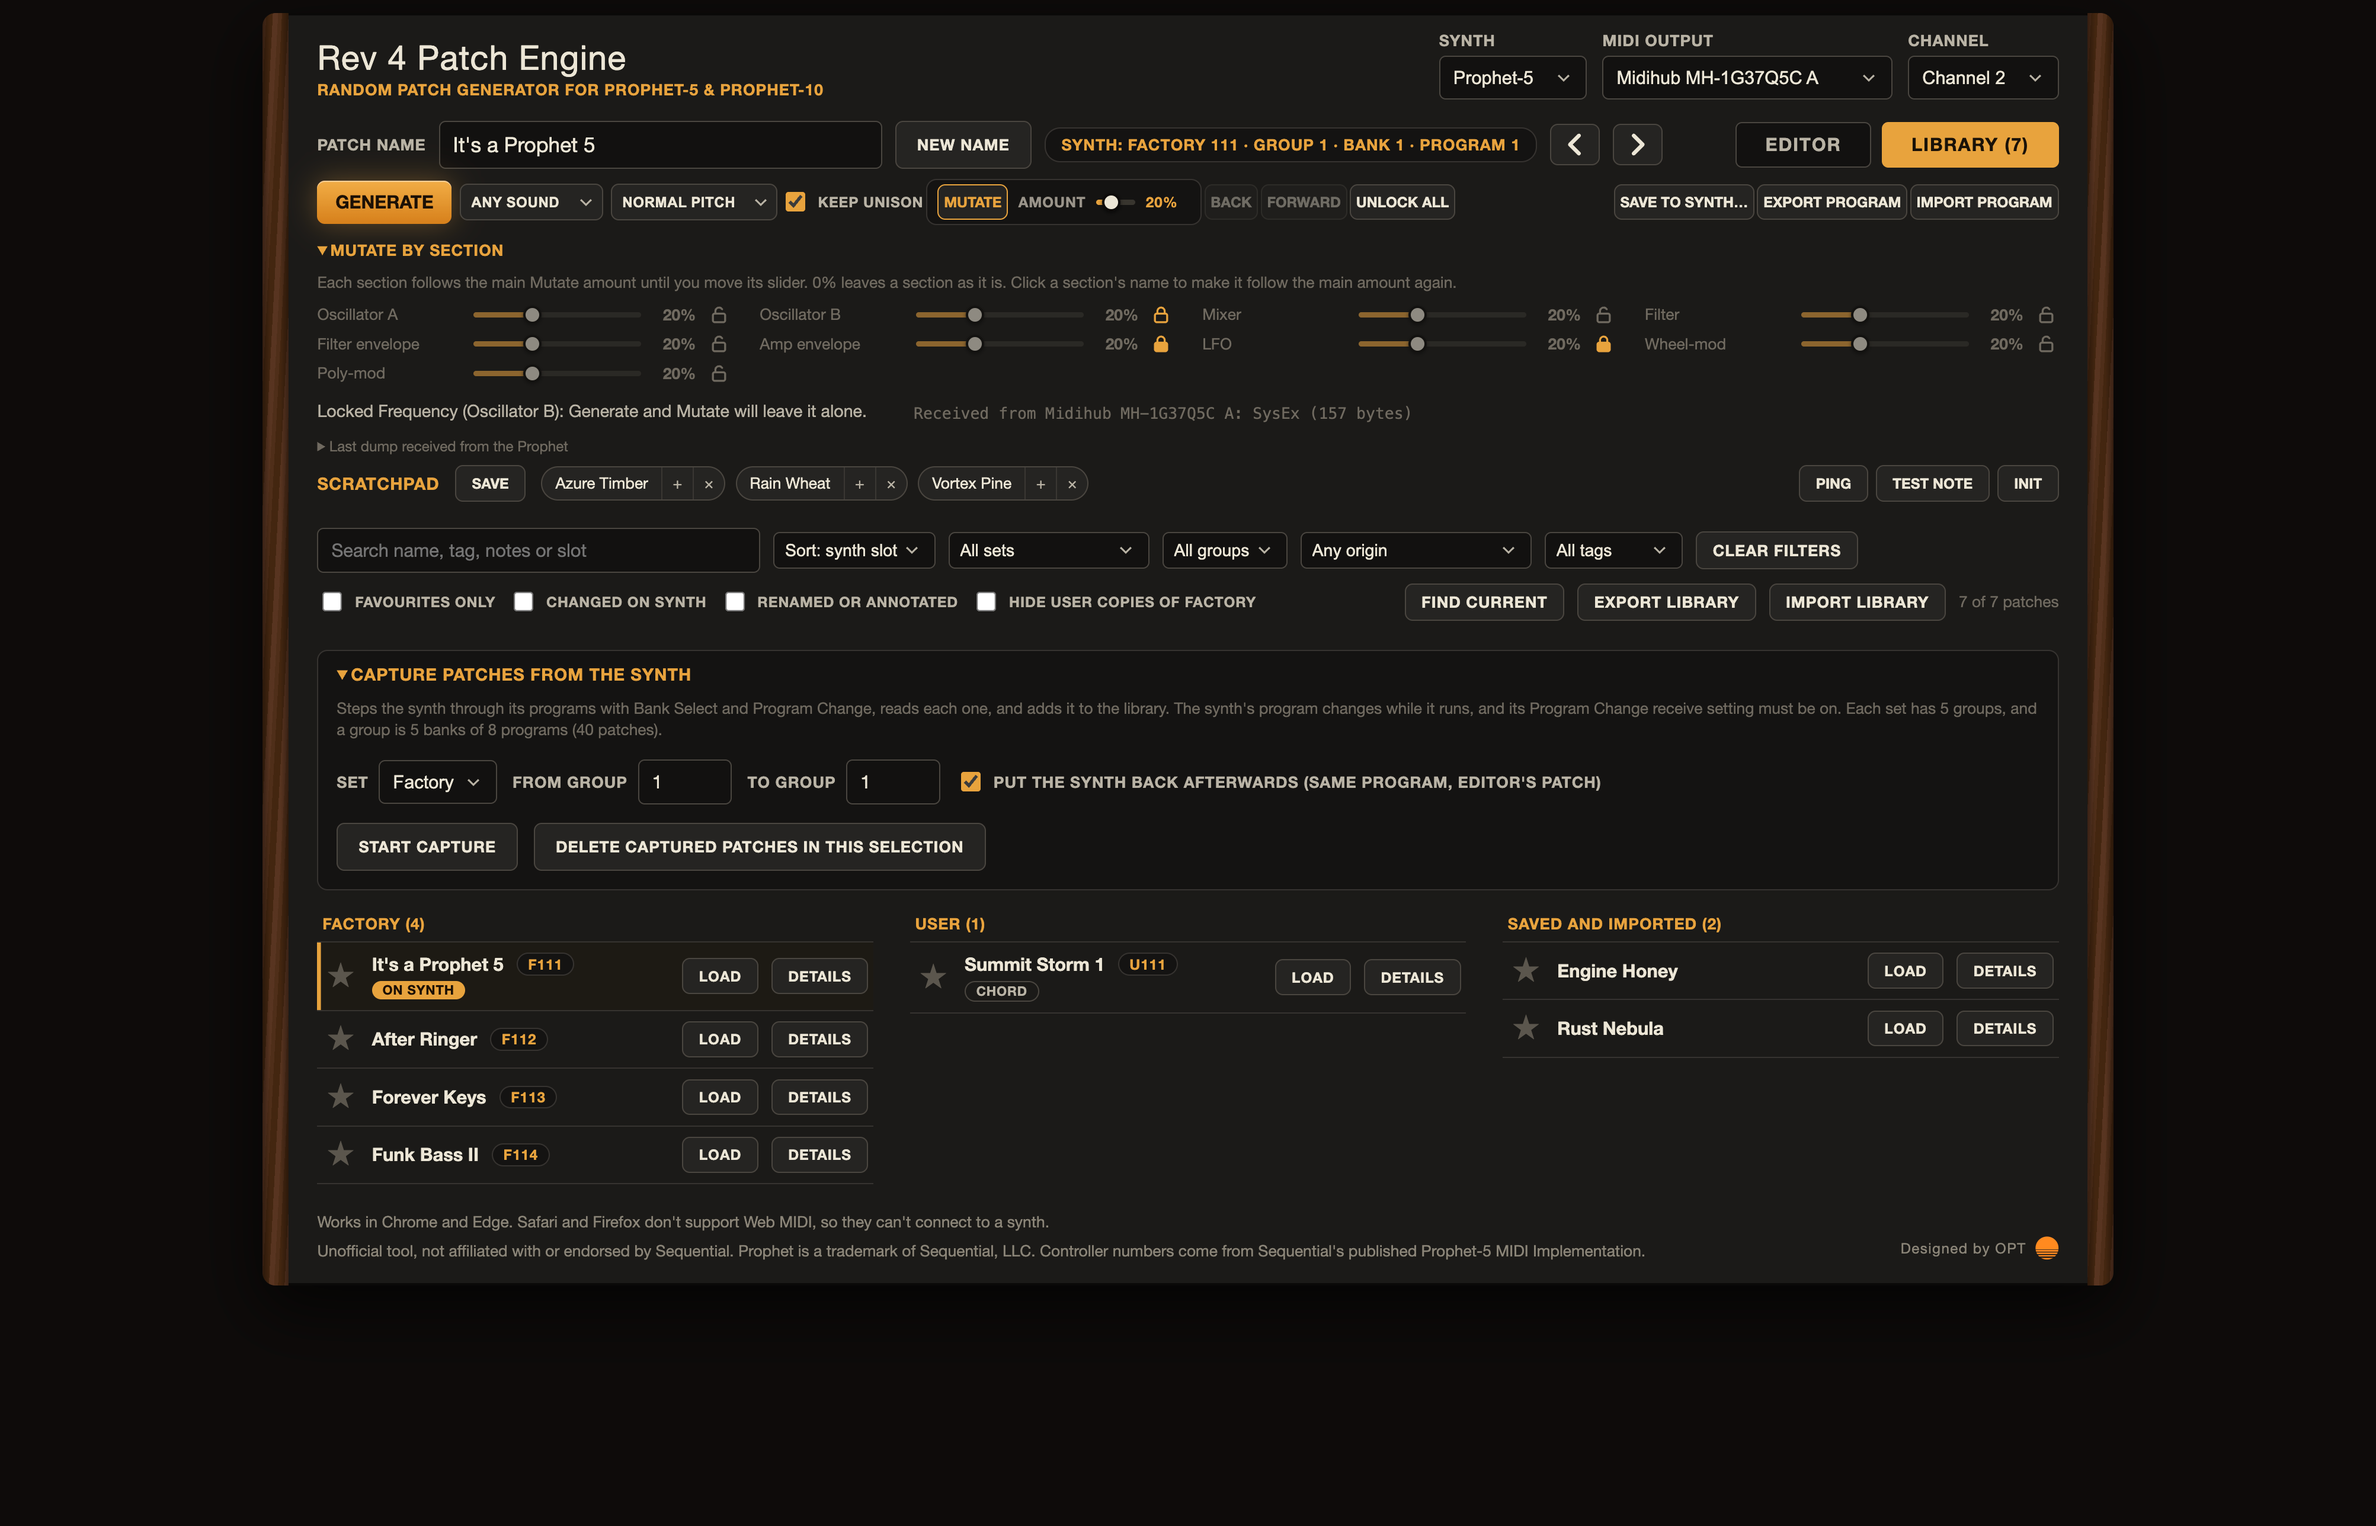
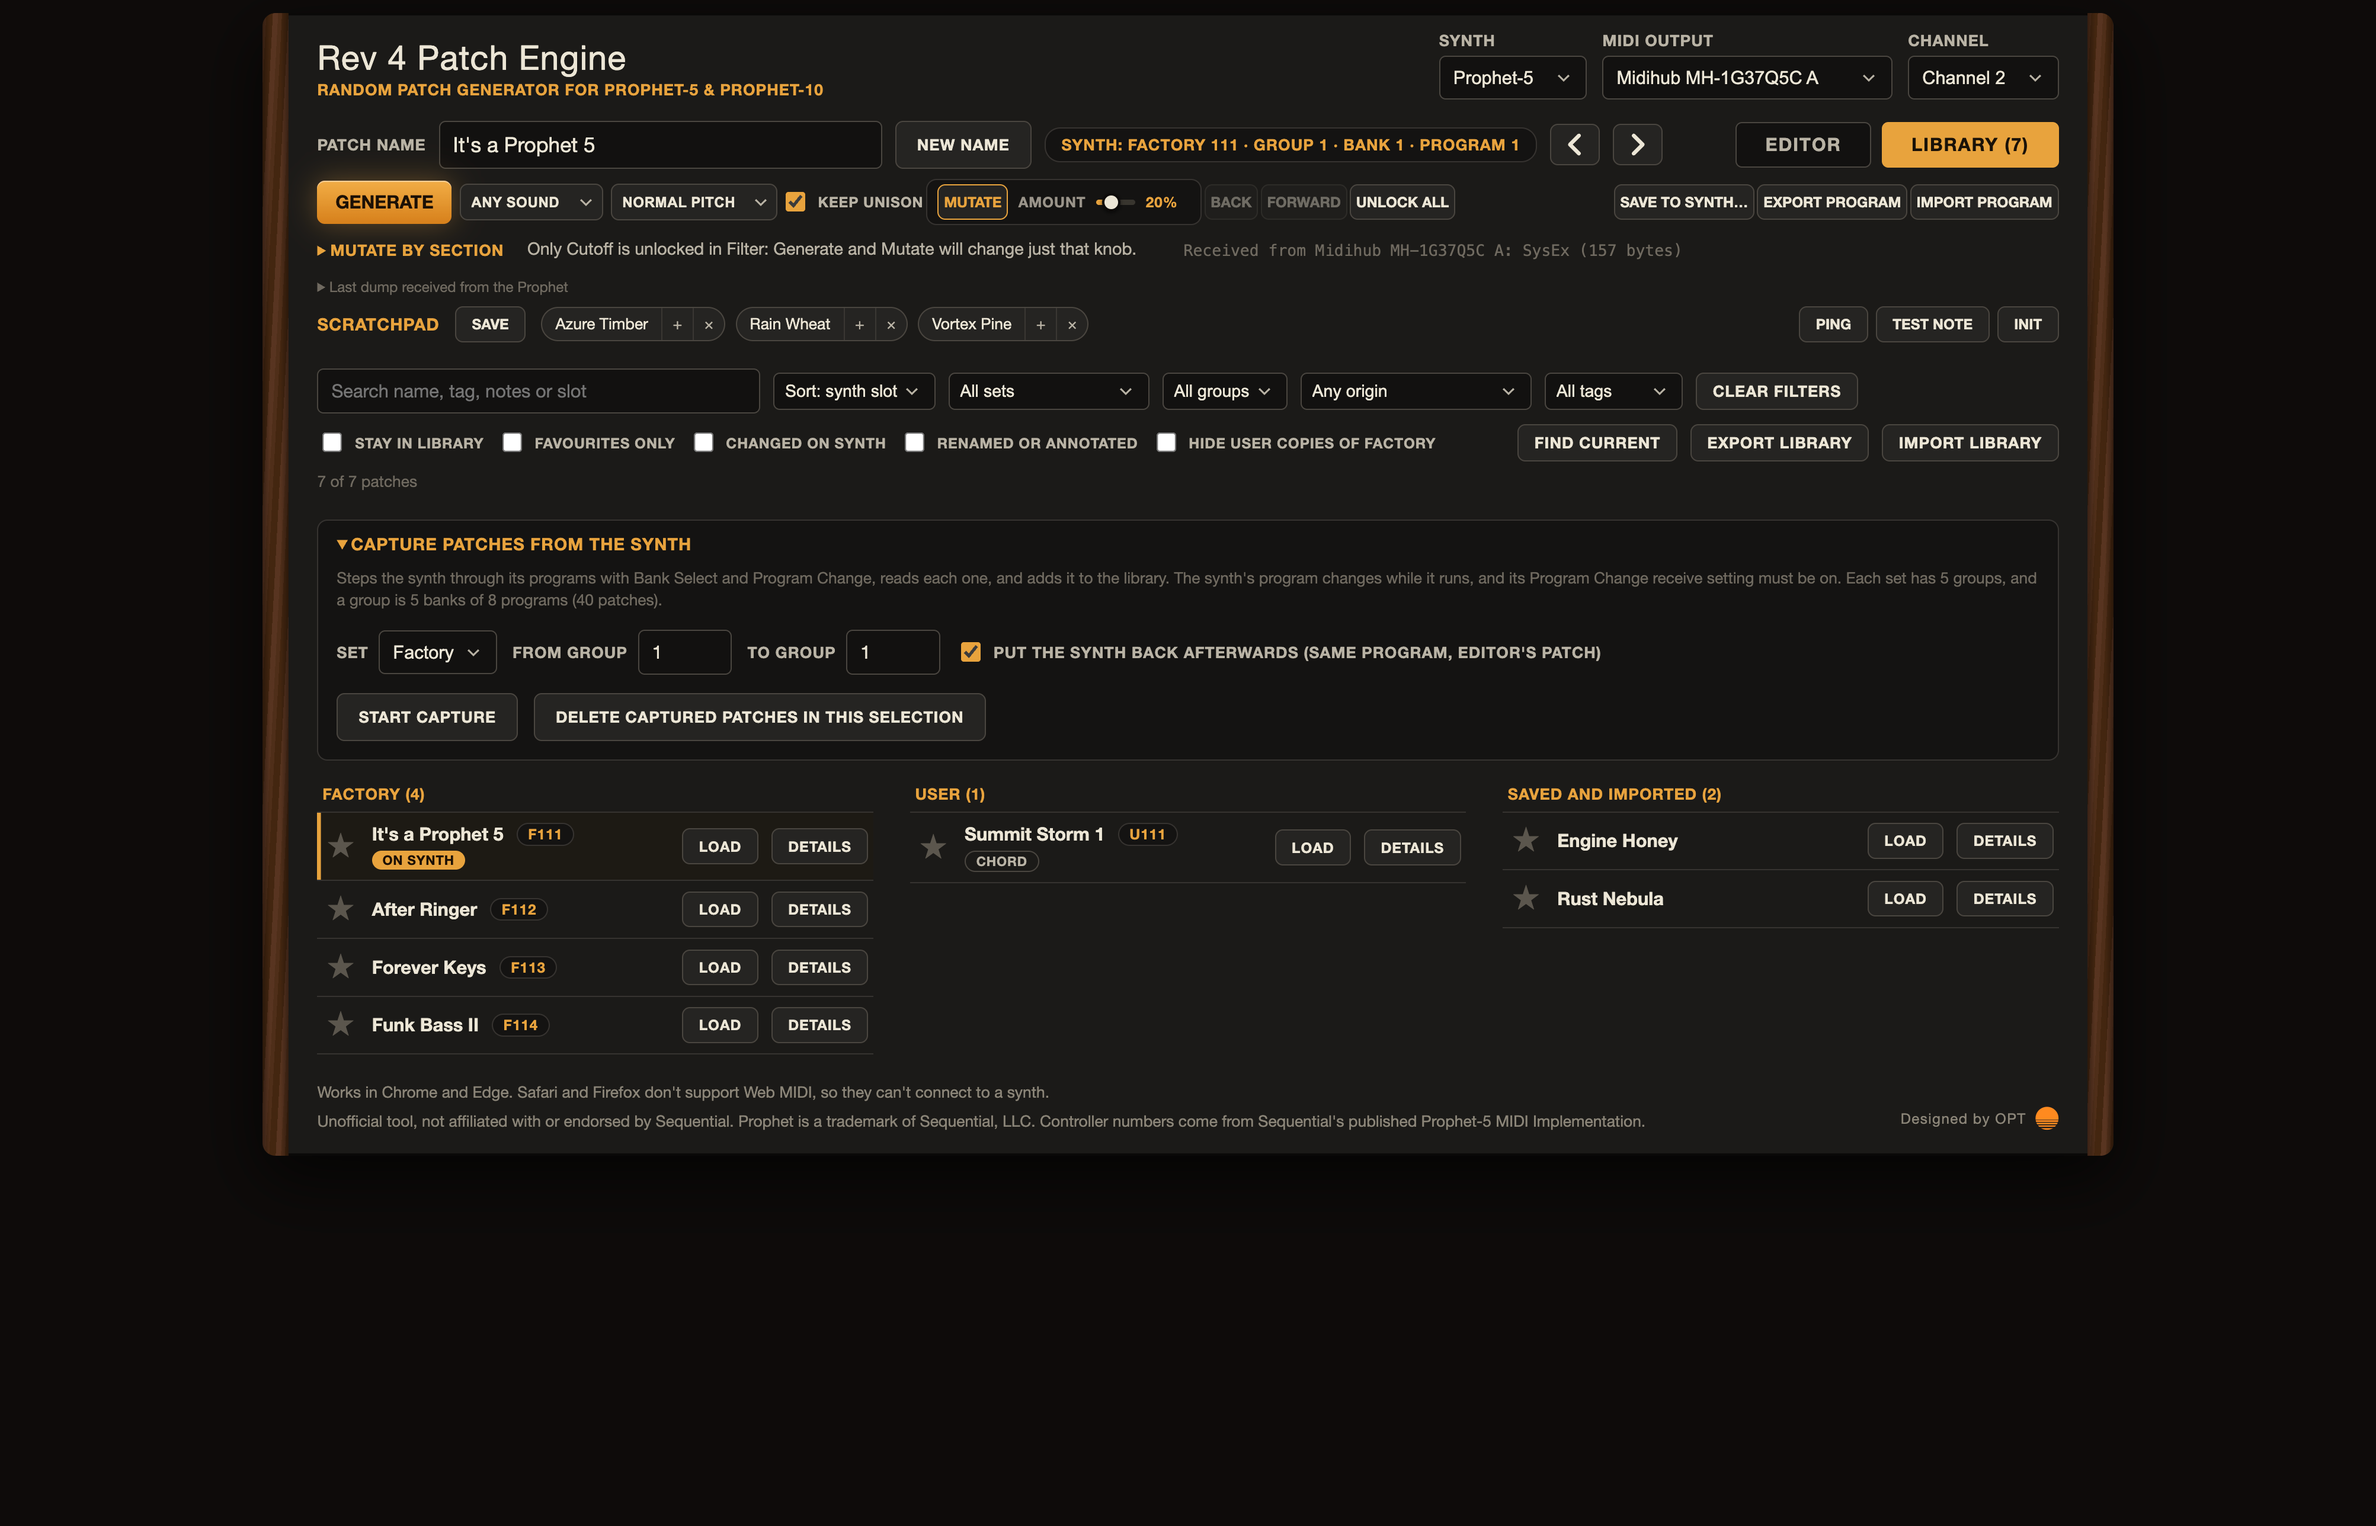
Add files via upload

diff --git a/index.html b/index.html
@@ -737,7 +737,7 @@ function buildDashboard() {
     sect.className = 'sect'; sect.dataset.g = g.toLowerCase().replace(/[^a-z0-9]+/g, ''); sect.dataset.lg = g;
     const GFX = {};                       // the envelope, filter and LFO graphics were removed; the draw functions skip a graphic that is not on the page
     const gid = GFX[g];
-    sect.innerHTML = `<h2>${g}</h2>${(g === 'Unison' || g === 'Response') ? '' : `<button type="button" class="lock lockicon" aria-pressed="false" data-lock="${g}" aria-label="Lock ${g}" title="Lock this section, so Generate and Mutate leave it alone (Shift-click locks every other section instead)" onclick="toggleLock('${g}', event)"><svg viewBox="0 0 16 16" aria-hidden="true"><path class="shk" d="M5 7V5a3 3 0 0 1 6 0v2"/><path class="shk-open" d="M5 7V5a3 3 0 0 1 5.6-1.5"/><rect x="3" y="7" width="10" height="7" rx="1.5"/></svg></button>`}` + (g === 'Unison' ? '<button type="button" class="lock syncbtn" title="Read the voice count, chord and detune from the synth" onclick="syncUnison()">Sync</button>' : '') + (gid ? `<svg class="env" id="${gid}" viewBox="0 0 240 72" preserveAspectRatio="none" role="img" aria-label="${g} graphic"><path class="env-fill"/><path class="env-line"/></svg>` : '') + '<div class="ctls"></div>' + ((CAPTIONS[g] || {}).ctls ? `<div class="cap"><span>${CAPTIONS[g].ctls}</span></div>` : '') + '<div class="sws"></div>' + ((CAPTIONS[g] || {}).sws ? `<div class="cap"><span>${CAPTIONS[g].sws}</span></div>` : '');
+    sect.innerHTML = `<h2>${g}</h2>${(g === 'Unison' || g === 'Response') ? '' : `<button type="button" class="lock lockicon" aria-pressed="false" data-lock="${g}" aria-label="Lock ${g}" title="Lock this section, so Generate and Mutate leave it alone (you can still edit it by hand). Shift-click locks every other section instead." onclick="toggleLock('${g}', event)"><svg viewBox="0 0 16 16" aria-hidden="true"><path class="shk" d="M5 7V5a3 3 0 0 1 6 0v2"/><path class="shk-open" d="M5 7V5a3 3 0 0 1 5.6-1.5"/><rect x="3" y="7" width="10" height="7" rx="1.5"/></svg></button>`}` + (g === 'Unison' ? '<button type="button" class="lock syncbtn" title="Read the voice count, chord and detune from the synth" onclick="syncUnison()">Sync</button>' : '') + (gid ? `<svg class="env" id="${gid}" viewBox="0 0 240 72" preserveAspectRatio="none" role="img" aria-label="${g} graphic"><path class="env-fill"/><path class="env-line"/></svg>` : '') + '<div class="ctls"></div>' + ((CAPTIONS[g] || {}).ctls ? `<div class="cap"><span>${CAPTIONS[g].ctls}</span></div>` : '') + '<div class="sws"></div>' + ((CAPTIONS[g] || {}).sws ? `<div class="cap"><span>${CAPTIONS[g].sws}</span></div>` : '');
     if (g === 'Unison') {
       sect.querySelector('.ctls').classList.add('uni');    }
     const box = sect.querySelector('.ctls'), sws = sect.querySelector('.sws'), later = [];
@@ -748,7 +748,7 @@ function buildDashboard() {
       c.className = 'ctl';
       if (p.type === 'range') {
         c.classList.add('kc');
-        c.innerHTML = `<div class="knob" id="input-${p.key}" role="slider" tabindex="0" aria-label="${p.label}" aria-valuemin="0" aria-valuemax="${p.max}" aria-valuenow="${v}" data-key="${p.key}" data-max="${p.max}">${knobSvg(p.key)}</div><div class="klabel" title="Click to lock this knob, so Generate and Mutate leave it alone. Shift-click to lock every other knob in this section instead.">${p.label}</div><b class="kval" id="val-${p.key}">${displayVal(p.key, v)}</b>`;
+        c.innerHTML = `<div class="knob" id="input-${p.key}" role="slider" tabindex="0" aria-label="${p.label}" aria-valuemin="0" aria-valuemax="${p.max}" aria-valuenow="${v}" data-key="${p.key}" data-max="${p.max}">${knobSvg(p.key)}</div><div class="klabel" title="Click to lock this knob, so Generate and Mutate leave it alone (you can still turn it by hand). Shift-click to lock every other knob in this section instead.">${p.label}</div><b class="kval" id="val-${p.key}">${displayVal(p.key, v)}</b>`;
       } else if (p.type === 'select') {
         c.innerHTML = `<select id="input-${p.key}" aria-label="${p.label}" onchange="updateParam('${p.key}', this.value)">${voiceOptions(v)}</select>` + (p.key === 'unison_voices' ? '<span class="chdinfo" id="chord-info"></span>' : '');
       } else if (p.type === 'steps') {
@@ -2794,7 +2794,7 @@ setName(randomName());
 libInit();
 
 // Fixed 1440px design, nudged up slightly on big screens (never more than 1.1x, never below 1x)
-function fitZoom() { try { document.body.style.zoom = Math.min(1.1, Math.max(1, window.innerWidth / 1440)); } catch (e) {} }
+function fitZoom() { try { document.body.style.zoom = Math.min(1.1, Math.max(0.6, document.documentElement.clientWidth / 1440)); } catch (e) {} }
 fitZoom(); window.addEventListener('resize', fitZoom);
 </script>
 </body>

diff --git a/README.md b/README.md
@@ -1,7 +1,7 @@
 # Rev 4 Patch Engine for Prophet-5 and Prophet-10
 
-![Screenshot](screenshot1.png?v=10)
-![Screenshot](screenshot2.png?v=10)
+![Screenshot](screenshot1.png?v=13)
+![Screenshot](screenshot2.png?v=13)
 
 A free, browser-based random patch generator, editor and librarian for the Sequential Prophet-5 and Prophet-10 (Rev 4). Generate a patch, nudge it with Mutate, tweak any control, read the patch on the synth into the app, save patches back to your synth, and keep a searchable library.
 
@@ -41,7 +41,7 @@ Every knob and button sends to the synth as you move it. Nothing is saved on the
 - The **Any sound** dropdown next to it (Pluck, Pad, Drone or Percussion) shapes the envelopes so the new patch fits that style. A Pluck also keeps the oscillator levels high, the filter fairly open and the resonance moderate, so it isn't quiet. Everything else stays random, and locked sections still win. Leave it on Any sound for fully random. **Percussion** makes a short hit with nothing sustained, picking one of three flavours at random: a kick or tom (the filter envelope drives Osc A's pitch through Poly-Mod, so each hit falls in pitch), a noise snare, or a metallic hat.
 - **Generate** sets **Oscillator A's frequency** from the pitch dropdown beside Any sound: Low (24), Normal (36, the default) or High (48). They are whole octaves apart, so the patch stays in tune. Mutate never changes it. **INIT** uses the same Normal pitch (36) for both oscillators.
 - **Mutate** nudges the current patch by the amount you choose. Open **Mutate by section** for a separate slider per section: each follows the main amount until you move it, and 0% leaves that section alone. Click a section's name to make it follow the main amount again.
-- The **padlock** on a section (amber when locked) keeps it unchanged through Generate and Mutate. A section with everything locked is dimmed. You can also lock a single knob: click its name (it turns amber with a small padlock). Shift-click a knob's name to lock every other knob in that section; Shift-click again to unlock them all. Lock every knob in a section and it counts as fully locked (solid padlock, dimmed, switches included). The section padlock shows as a hollow amber padlock while only some of its knobs are locked, and one click locks the rest; click it when everything is locked to unlock the lot. This is how you mutate just a couple of knobs, such as the filter envelope's sustain and release: Shift-click that section's padlock, then click Attack and Decay. Only knobs can be locked one by one; switches and lamp buttons follow the section padlock. To work on just one section, **Shift-click** its padlock: every other section locks and only that one changes. Shift-click again to unlock them all. The same padlocks appear in **Mutate by section**. **Keep unison** keeps your unison settings through Generate. An **Unlock all** button appears next to Forward whenever anything is locked, and removes every lock in one click. Locks stay on when you change program or load a Library patch, and clear when you refresh the page.
+- The **padlock** on a section (amber when locked) keeps it unchanged through Generate and Mutate. A section with everything locked is dimmed. Locks only stop Generate and Mutate; you can still change a locked control by hand. You can also lock a single knob: click its name (it turns amber with a small padlock). Shift-click a knob's name to lock every other knob in that section; Shift-click again to unlock them all. Lock every knob in a section and it counts as fully locked (solid padlock, dimmed, switches included). The section padlock shows as a hollow amber padlock while only some of its knobs are locked, and one click locks the rest; click it when everything is locked to unlock the lot. This is how you mutate just a couple of knobs, such as the filter envelope's sustain and release: Shift-click that section's padlock, then click Attack and Decay. Only knobs can be locked one by one; switches and lamp buttons follow the section padlock. To work on just one section, **Shift-click** its padlock: every other section locks and only that one changes. Shift-click again to unlock them all. The same padlocks appear in **Mutate by section**. **Keep unison** keeps your unison settings through Generate. An **Unlock all** button appears next to Forward whenever anything is locked, and removes every lock in one click. Locks stay on when you change program or load a Library patch, and clear when you refresh the page.
 - Generate and Mutate leave an oscillator's **pulse width** alone while its **square** wave is off, since pulse width only changes a square wave's sound.
 - **Back** undoes up to 20 Generate and Mutate steps, and **Forward** redoes them. Both grey out when there's nothing to go to, and both start afresh when the program changes or you load a different patch (from the Library, a file or the arrows) or press INIT, since they are only for Generate and Mutate.
 
@@ -62,7 +62,7 @@ Every knob and button sends to the synth as you move it. Nothing is saved on the
 **Controls**
 - Knobs: drag up or down (hold Shift for fine control), use the mouse wheel or arrow keys when a knob is focused, or double-click to reset.
 - The number under each knob is the synth's own value (mostly 0 to 120), not the 0 to 10 on the panel.
-- The editor is laid out for a desktop window about 1440 pixels wide. On a wider window it stays centred at that size; on a narrower one the page scrolls sideways. It is not designed for phones or tablets.
+- The editor is laid out for a desktop window about 1440 pixels wide and shrinks to fit a narrower browser window (down to about 60%), so the whole panel stays on screen when you resize. On a wider window it grows slightly (up to 110%) and stays centred. It is not designed for phones or tablets.
 
 ## The Library
 
